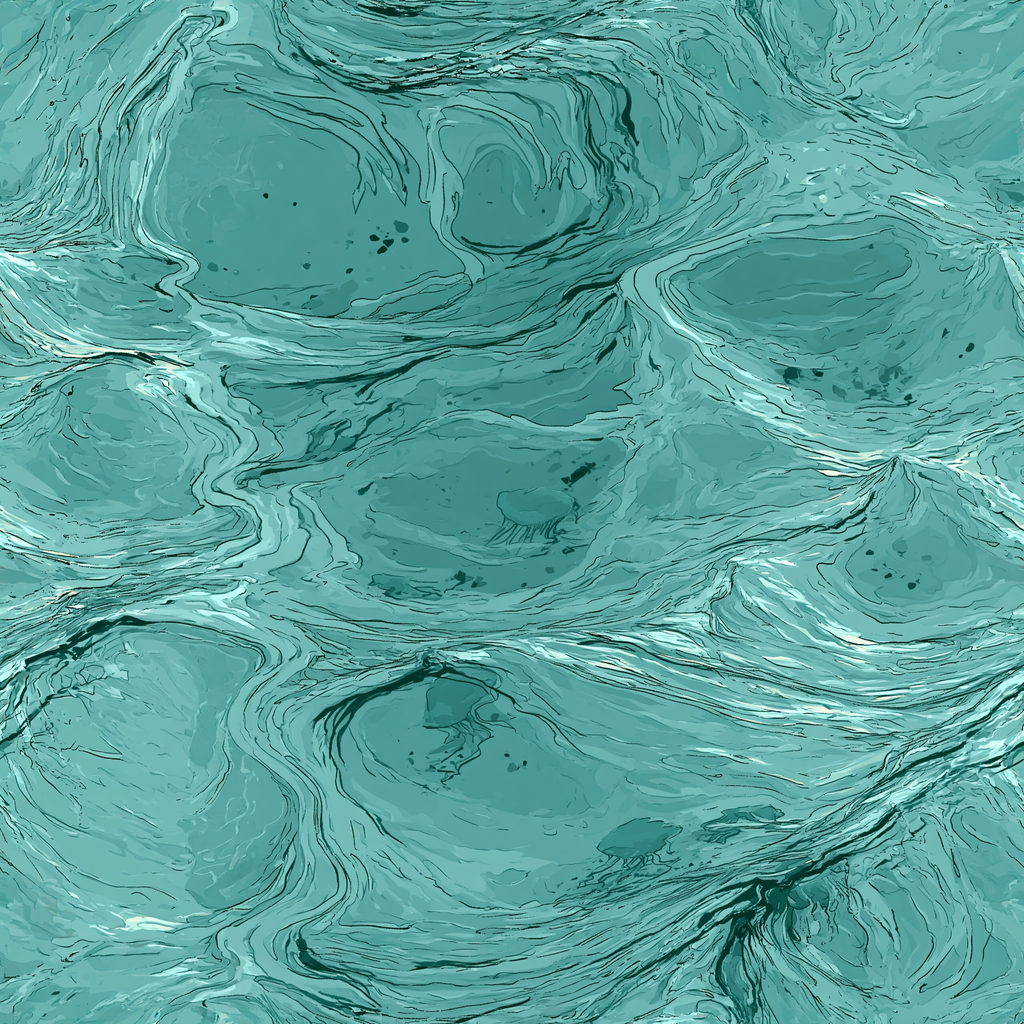
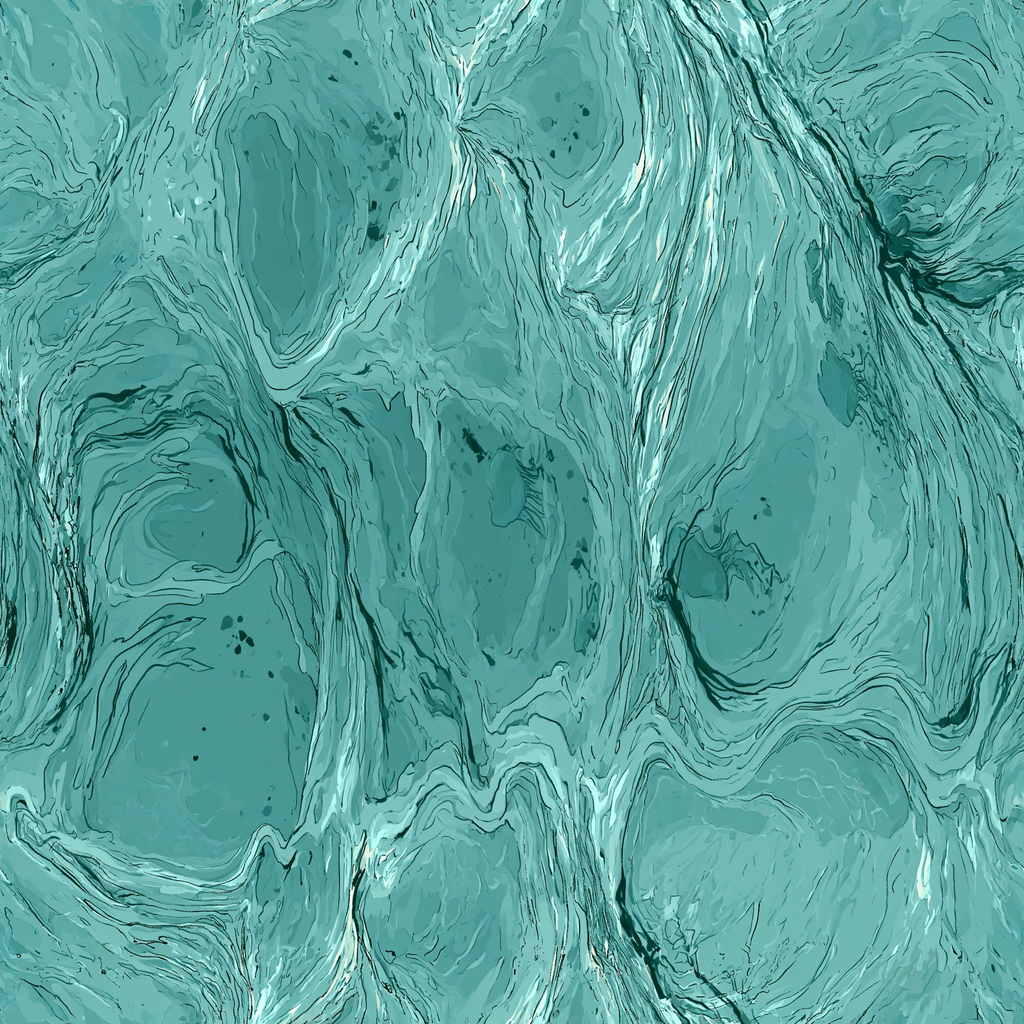
feat(content): the river's water, oriented along the current, with swirls and calm stretches that melt in
Every water image is turned a quarter turn on disk so its lines follow
the river (Midjourney draws along the width). The swirling sister (04)
is the accent over a quarter, the calm water (05) a few stretches with
a wide fade; its half-turned copy (06) is in reserve. The fade width
of the second and worn layers becomes a per-layer number
(second_softness, worn_softness). Textures without an import yet load
straight from their file, so a fresh image survives a client restart.

diff --git a/content/art/ground/ground_water_01_summer.md b/content/art/ground/ground_water_01_summer.md
@@ -7,6 +7,7 @@ What made it work, after four failures (bright cyan cells, flat dark ribbon, str
 - **File**: `ground_water_01_summer.png`, 1024 × 1024 (reduced from 2048), seamless; covers 4 × 4 m.
 - **Generated** with Midjourney by the project lead; chosen among sixteen as the calmest of the two tileable ones (7 % of bright pixels).
 - **Prompt**: `seamless tileable top-down texture of calm river water exactly like the reference image, flat teal colour areas in two or three close tones, a few thin dark curved lines and small dark specks, no lighter streaks at all, no bands, even lighting over the whole image, no darker corner, hand-painted cartoon style with thin outlines, water from edge to edge, no banks, no shore, no objects, game art texture --ar 1:1 --tile --sw 100 --iw 2 --s 50 --no white streaks, pink highlights, peach, light bands, bright waves, foam, rapids, highlights, reflections, rocks, stones, pebbles, islands, banks, shore, sand, grass, plants, fish, landscape, scenery, photo, realistic, shadows, vignette, gradient, dark corner, text` (a screenshot of the river in the client as style and image reference).
+- **Orientation**: turned a quarter turn on disk (6 November 2026, evening): Midjourney draws its strokes along the image's width, and the river runs along the texture's height; turned, the lines follow the current and the banks. The lead's words: "c'était ça". Every water image is turned the same way; a copy for variety is turned a half turn, never a quarter, so the lines stay along the river.
 - **Measured**: mean RGB 72/158/153, brought toward the reference's river by the tint in `ground.json`; edges continuous (2 × 2 tiling checked).
 
 Licensed under CC BY-NC-SA 4.0 like all content (`docs/LICENSE`).

diff --git a/content/art/ground/ground_water_05_summer.md b/content/art/ground/ground_water_05_summer.md
@@ -1,0 +1,11 @@
+# ground_water_05_summer
+
+The calm water: the same cartoon water nearly flat, fine ripples along the current, a quarter of the first water's detail, same tone within three points. The river's calm stretches, blended over about a fifth of it with a wide fade (`worn_softness` 0.35), which is what makes it melt into the lively water (6 November 2026). Turned a quarter turn on disk so its ripples follow the river.
+
+Tried as the river's base with the lively water in zones: too calm, and the calm read as another pattern. As a few stretches with a wide fade it is right.
+
+- **File**: `ground_water_05_summer.png`, 1024 × 1024 (reduced from 2048), seamless; covers 4 × 4 m.
+- **Generated** with Midjourney by the project lead, with a crop of `ground_water_01` as style and image reference and `--s 25`; the calmest tileable image of its batch.
+- **Measured**: mean RGB 71/157/161; edges continuous (2 × 2 tiling checked).
+
+Licensed under CC BY-NC-SA 4.0 like all content (`docs/LICENSE`).

diff --git a/content/art/ground/ground_water_03_summer.md b/content/art/ground/ground_water_03_summer.md
@@ -1,6 +1,6 @@
 # ground_water_03_summer
 
-Sister of `ground_water_01`: the same calm cartoon water, a little paler and drawn in rounder cells with thin dark lines. Blended over 40 % of the river, its tone brought to the first water's by `sibling_tint` (6 November 2026).
+Sister of `ground_water_01`: the same calm cartoon water, a little paler and drawn in rounder cells with thin dark lines. Blended over 40 % of the river, turned a quarter turn on disk like every water image, its tone brought to the first water's by `sibling_tint` (6 November 2026).
 
 - **File**: `ground_water_03_summer.png`, 1024 × 1024 (reduced from 2048), seamless; covers 4 × 4 m.
 - **Generated** with Midjourney by the project lead, same references and prompt family as `ground_water_01`; the other tileable image of its batch of sixteen.

diff --git a/content/art/ground/ground_water_04_summer.md b/content/art/ground/ground_water_04_summer.md
@@ -1,0 +1,9 @@
+# ground_water_04_summer
+
+Swirling sister of `ground_water_01`: the same cartoon water with concentric swirls. Not calm, but compatible (tone within six points, seamless): the river's accent, blended over a quarter of it with a medium fade (6 November 2026). Turned a quarter turn on disk, like every water image, so its lines follow the river.
+
+- **File**: `ground_water_04_summer.png`, 1024 × 1024 (reduced from 2048), seamless; covers 4 × 4 m.
+- **Generated** with Midjourney by the project lead, same references as `ground_water_01`; one of two tileable images in a batch of seven.
+- **Measured**: mean RGB 61/157/147; edges continuous (2 × 2 tiling checked).
+
+Licensed under CC BY-NC-SA 4.0 like all content (`docs/LICENSE`).

diff --git a/content/art/ground/ground_water_06_summer.md b/content/art/ground/ground_water_06_summer.md
@@ -1,0 +1,8 @@
+# ground_water_06_summer
+
+`ground_water_05` turned a half turn: a second calm stretch that does not repeat the first's pattern (a half turn keeps the ripples along the river). In reserve for now (6 November 2026).
+
+- **File**: `ground_water_06_summer.png`, 1024 × 1024, seamless; covers 4 × 4 m.
+- **Made** from `ground_water_05_summer.png` by a half turn, nothing else.
+
+Licensed under CC BY-NC-SA 4.0 like all content (`docs/LICENSE`).
